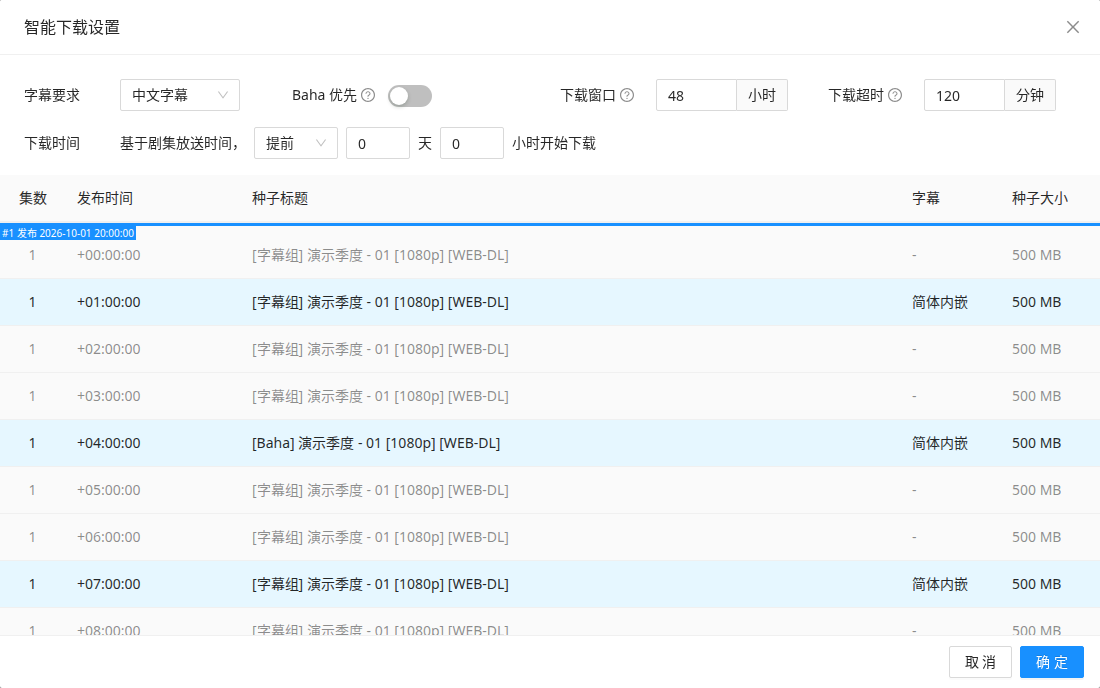
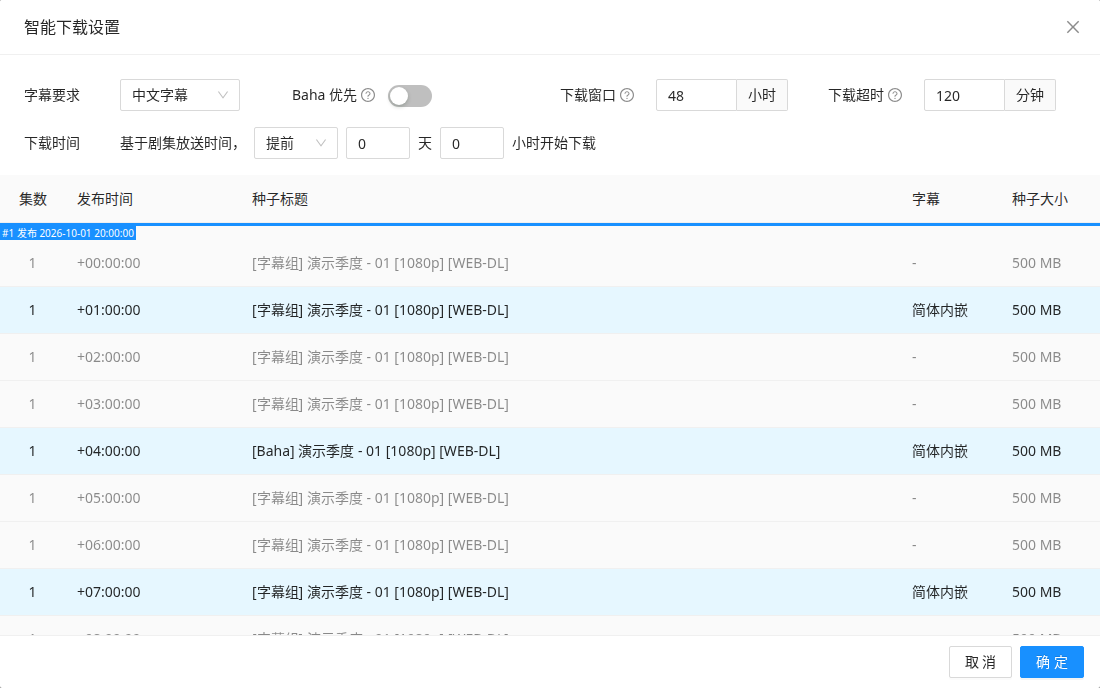
feat(admin): 延迟显示排除原因并吸顶剧集发布时间

diff --git a/apps/admin/src/pages/season/parts/smart-download/index.tsx b/apps/admin/src/pages/season/parts/smart-download/index.tsx
@@ -1,4 +1,4 @@
-import { useCallback, useMemo, useState } from 'react';
+import { Fragment, useCallback, useMemo, useState } from 'react';
 import { useApolloClient } from '@apollo/client';
 import {
   Alert,
@@ -394,78 +394,83 @@ export function SettingsDialog({
                   : undefined;
                 const reasonId = `smart-download-exclusion-${row.key}`;
                 return (
-                  <tr
-                    key={row.key}
-                    data-release-ids={row.release?.episodeIds.join(',')}
-                    tabIndex={exclusion ? 0 : undefined}
-                    aria-describedby={exclusion ? reasonId : undefined}
-                    className={clsx({
-                      [styles.excluded]: !!exclusion || !torrent,
-                      [styles.release]: !!row.release,
-                    })}
-                  >
-                    {torrent ? (
-                      <>
-                        <td data-release={release}>
-                          <span className={styles.cellContent}>
-                            {typeof torrent.episodeInfo?.index === 'number' ||
-                            typeof torrent.episodeInfo?.index === 'string'
-                              ? String(torrent.episodeInfo.index)
-                              : '-'}
-                          </span>
-                        </td>
-                        <td
-                          title={dayjs(torrent.publishDate).format(
-                            'YYYY-MM-DD HH:mm:ss',
-                          )}
-                        >
-                          <span className={styles.cellContent}>
-                            {row.precedingReleaseAt === undefined
-                              ? dayjs(torrent.publishDate).format(
-                                  'YYYY-MM-DD HH:mm:ss',
-                                )
-                              : relativePublishTime(
-                                  torrent.publishDate,
-                                  row.precedingReleaseAt,
-                                )}
-                          </span>
-                        </td>
-                        <td className={styles.titleCell}>
-                          <span className={styles.cellContent}>
-                            {torrent.title}
-                          </span>
-                          {exclusion && (
-                            <span
-                              id={reasonId}
-                              className={styles.exclusionReason}
-                            >
-                              <span>{exclusion}</span>
-                            </span>
-                          )}
-                        </td>
-                        <td>
-                          <span className={styles.cellContent}>
-                            <TorrentSubtitle
-                              info={torrent.subtitleInfo as SubtitleInfo}
-                            />
-                          </span>
-                        </td>
-                        <td>
-                          <span className={styles.cellContent}>
-                            {prettyBytes(Number(torrent.size))}
-                          </span>
-                        </td>
-                      </>
-                    ) : (
-                      <td
-                        colSpan={5}
-                        data-release={release}
-                        className={styles.emptyRow}
+                  <Fragment key={row.key}>
+                    {release && (
+                      <tr
+                        className={styles.release}
+                        data-release-ids={row.release?.episodeIds.join(',')}
                       >
-                        无匹配种子
-                      </td>
+                        <td colSpan={5}>
+                          <span className={styles.releaseLabel}>{release}</span>
+                        </td>
+                      </tr>
                     )}
-                  </tr>
+                    <tr
+                      tabIndex={exclusion ? 0 : undefined}
+                      aria-describedby={exclusion ? reasonId : undefined}
+                      className={clsx(styles.torrentRow, {
+                        [styles.excluded]: !!exclusion || !torrent,
+                      })}
+                    >
+                      {torrent ? (
+                        <>
+                          <td>
+                            <span className={styles.cellContent}>
+                              {typeof torrent.episodeInfo?.index === 'number' ||
+                              typeof torrent.episodeInfo?.index === 'string'
+                                ? String(torrent.episodeInfo.index)
+                                : '-'}
+                            </span>
+                          </td>
+                          <td
+                            title={dayjs(torrent.publishDate).format(
+                              'YYYY-MM-DD HH:mm:ss',
+                            )}
+                          >
+                            <span className={styles.cellContent}>
+                              {row.precedingReleaseAt === undefined
+                                ? dayjs(torrent.publishDate).format(
+                                    'YYYY-MM-DD HH:mm:ss',
+                                  )
+                                : relativePublishTime(
+                                    torrent.publishDate,
+                                    row.precedingReleaseAt,
+                                  )}
+                            </span>
+                          </td>
+                          <td className={styles.titleCell}>
+                            <span className={styles.cellContent}>
+                              {torrent.title}
+                            </span>
+                            {exclusion && (
+                              <span
+                                id={reasonId}
+                                className={styles.exclusionReason}
+                              >
+                                <span>{exclusion}</span>
+                              </span>
+                            )}
+                          </td>
+                          <td>
+                            <span className={styles.cellContent}>
+                              <TorrentSubtitle
+                                info={torrent.subtitleInfo as SubtitleInfo}
+                              />
+                            </span>
+                          </td>
+                          <td>
+                            <span className={styles.cellContent}>
+                              {prettyBytes(Number(torrent.size))}
+                            </span>
+                          </td>
+                        </>
+                      ) : (
+                        <td colSpan={5} className={styles.emptyRow}>
+                          无匹配种子
+                        </td>
+                      )}
+                    </tr>
+                  </Fragment>
                 );
               })}
             </tbody>

diff --git a/apps/admin/src/pages/season/parts/smart-download/index.module.less b/apps/admin/src/pages/season/parts/smart-download/index.module.less
@@ -90,6 +90,8 @@
   max-height: 460px;
   flex: 1;
 }
+// 与 preview.ts 的 48px 恢复位置对应，分界线停在固定表头的下方。
+@previewHeaderHeight: 48px;
 .table {
   width: 100%;
   min-width: 800px;
@@ -103,6 +105,7 @@
     text-align: left;
   }
   th {
+    height: @previewHeaderHeight;
     position: sticky;
     top: 0;
     z-index: 2;
@@ -128,7 +131,7 @@
   td:nth-child(3) {
     overflow-wrap: anywhere;
   }
-  tbody tr:not(.excluded) {
+  .torrentRow:not(.excluded) {
     background: var(--lani-selected);
     &:hover {
       background: var(--lani-highlight-bg);
@@ -141,6 +144,9 @@
 }
 .titleCell {
   position: relative;
+  .cellContent {
+    transition: visibility 0s;
+  }
 }
 .exclusionReason {
   position: absolute;
@@ -152,6 +158,7 @@
   color: var(--lani-text);
   text-align: left;
   visibility: hidden;
+  transition: visibility 0s;
   pointer-events: none;
 
   > span {
@@ -163,35 +170,45 @@
   }
 }
 .excluded[tabindex]:hover,
-.excluded[tabindex]:focus {
+.excluded[tabindex]:focus-visible {
   .titleCell .cellContent {
     visibility: hidden;
+    transition-delay: 350ms;
   }
   .exclusionReason {
     visibility: visible;
+    transition-delay: 350ms;
   }
 }
-.release {
-  td {
-    padding-top: 18px;
-    border-top: 3px solid var(--lani-primary);
+.excluded[tabindex]:focus-visible {
+  .titleCell .cellContent,
+  .exclusionReason {
+    transition-delay: 0s;
   }
-  td[data-release] {
-    position: relative;
-  }
-  td[data-release]::after {
-    content: attr(data-release);
-    position: absolute;
-    top: 0;
-    z-index: 1;
-    left: 0;
-    padding: 1px 2px;
-    color: var(--lani-image-text);
-    background: var(--lani-primary);
-    font-size: 10px;
-    line-height: 1.2;
-    white-space: nowrap;
-  }
+}
+.table .release td {
+  // 仅单元格吸顶；行本身保持正常流位置，供偏移调整前后定位剧集。
+  position: sticky;
+  top: @previewHeaderHeight;
+  z-index: 1;
+  height: 17px;
+  padding: 0;
+  border-top: 3px solid var(--lani-primary);
+  border-bottom: 0;
+  line-height: 14px;
+  text-align: left;
+  // 后一集覆盖前一集时，较长的旧标签不能从右侧透出。
+  background: var(--lani-table-header-bg);
+}
+.releaseLabel {
+  display: inline-block;
+  vertical-align: top;
+  padding: 1px 2px;
+  color: var(--lani-image-text);
+  background: var(--lani-primary);
+  font-size: 10px;
+  line-height: 12px;
+  white-space: nowrap;
 }
 .table .emptyRow {
   text-align: center;

diff --git a/apps/admin/src/pages/season/parts/smart-download/preview.ts b/apps/admin/src/pages/season/parts/smart-download/preview.ts
@@ -186,7 +186,7 @@ export function relativePublishTime(publishDate: string, releaseAt: number) {
     .join(':')}`;
 }
 
-/** 在改变偏移前读取实际位置，50px 采样和 48px 恢复之间留 2px 余量。 */
+/** 读取正常流中的分界行，而非吸顶单元格；50px 采样与 48px 恢复留 2px 余量。 */
 export function captureRelease(viewport: HTMLElement): number | undefined {
   const top = viewport.getBoundingClientRect().top + 50;
   const rows = [

diff --git a/docs/docs/usage/smart-download.md b/docs/docs/usage/smart-download.md
@@ -26,7 +26,7 @@ sidebar_position: 2
 
 预览按种子发布时间从早到晚展示。进入弹窗时从首集开始下载时间之前的 10 条种子开始，并将首集分界线定位到列表顶部下方约 48px；滚动到底部每次展开 30 行，lani 在后台按 90 条读取，补齐下一次剧集发布边界。尚未取完整的尾部区间暂时置灰。
 
-蓝线位于每集开始下载时间之后首条种子的上边缘，左上角显示集数及偏移后的完整发布时间。第二列显示种子相对最近一次剧集发布的时间差，例如 `+12:34:56`；早于所有剧集发布的种子显示完整日期时间。区间内没有资源时以灰色行显示「无匹配种子」。仍符合当前规则的候选种子显示浅蓝色背景；不符合规则的种子置灰，悬停或使用键盘聚焦时，标题单元格左对齐显示排除原因，最多两行并保持行高，其他字段和角标仍然可见。
+蓝线位于每集开始下载时间之后首条种子的上边缘，左上角显示集数及偏移后的完整发布时间，滚动时固定在表头下方，进入下一集区间后切换。第二列显示种子相对最近一次剧集发布的时间差，例如 `+12:34:56`；早于所有剧集发布的种子显示完整日期时间。区间内没有资源时以灰色行显示「无匹配种子」。仍符合当前规则的候选种子显示浅蓝色背景；不符合规则的种子置灰，悬停 350 毫秒后，标题单元格左对齐显示排除原因，移开立即恢复标题；键盘聚焦直接显示原因，最多两行并保持行高，其他字段和角标仍然可见。
 
 调整下载时间时，列表会跟随当前视口顶部附近的同一集分界线。若提前到已加载范围之前，会暂时锁定列表滚动，等连续调整结束、种子补齐后恢复位置。天数和小时都可以输入负数，回车或失焦后会合并为总偏移；增减按钮立即生效。例如「提前 0 天 1 小时」将天数减一后，自动变为「延后 0 天 23 小时」。
 
